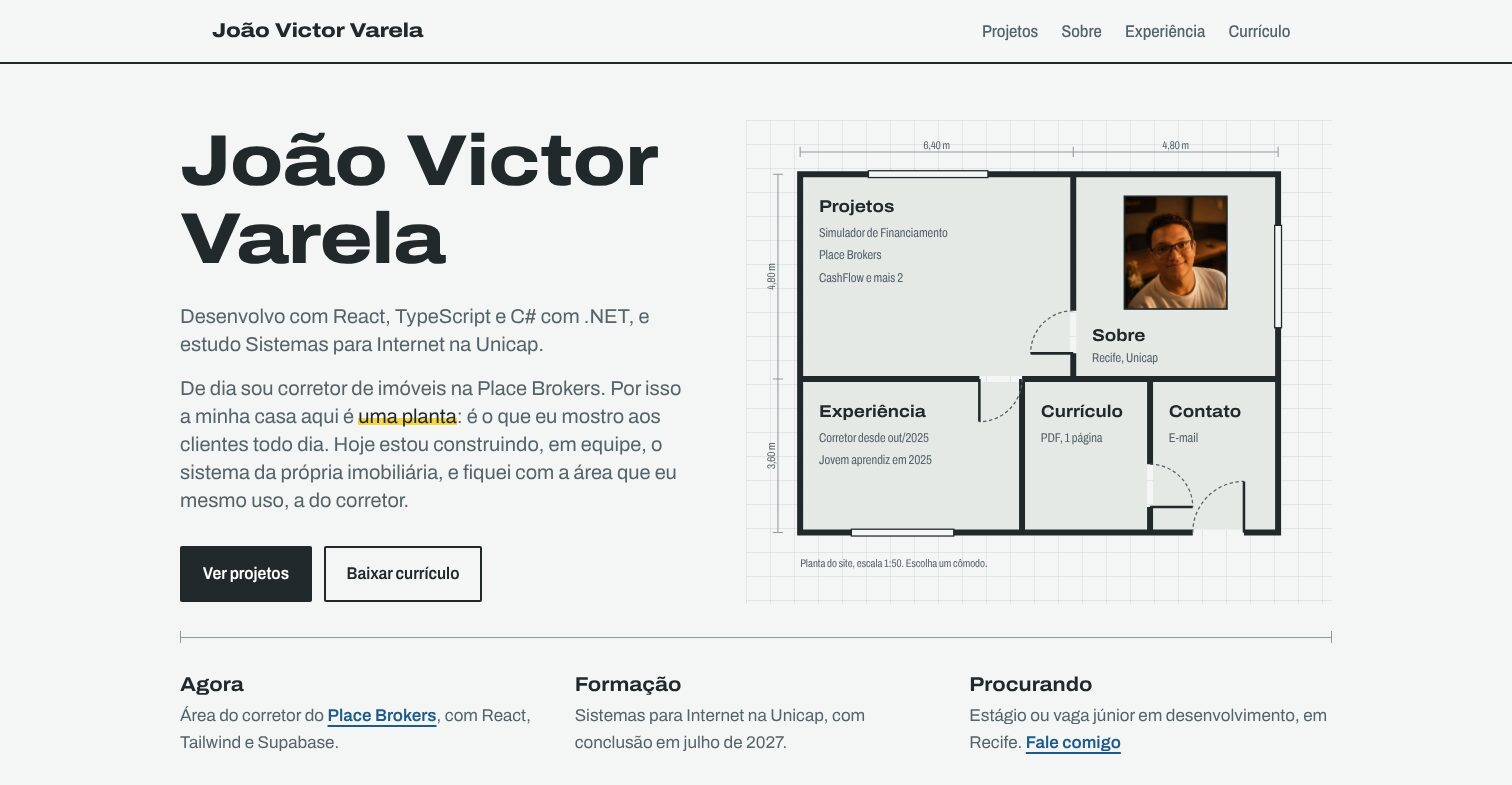
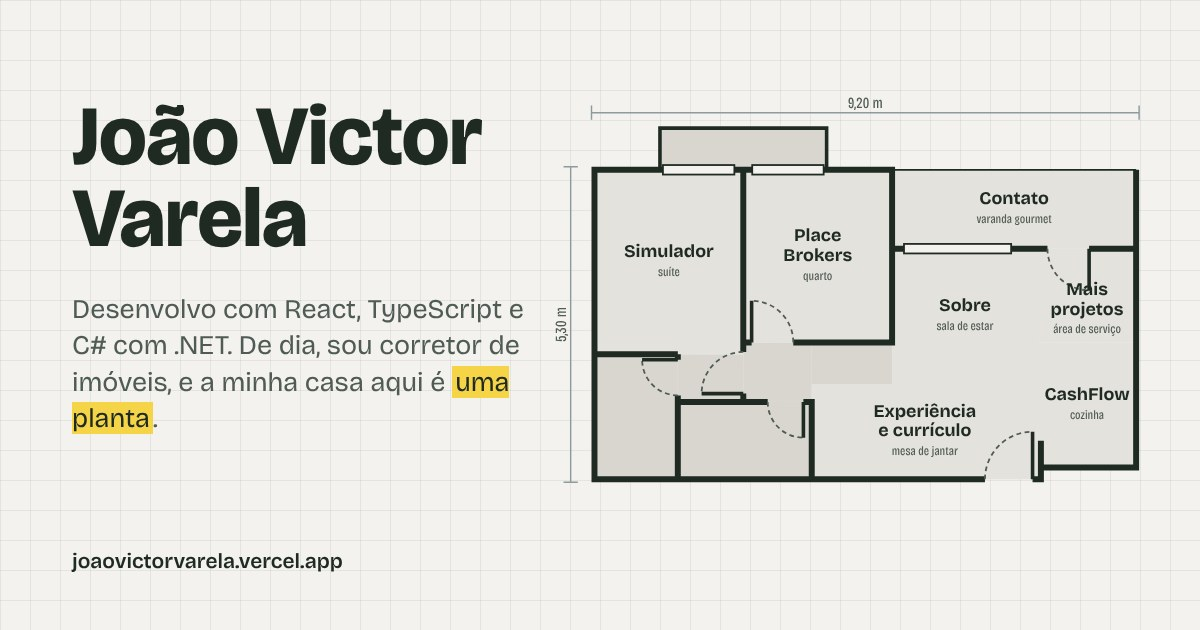
Imagem de compartilhamento nova, com a planta do site
Claude-Session: https://claude.ai/code/session_01WJa6oF6cnT1zW7dASZSFwD

diff --git a/app/layout.js b/app/layout.js
@@ -27,7 +27,7 @@ export const metadata = {
     siteName: "João Victor Varela",
     title: "João Victor Varela | Desenvolvedor",
     description: descricao,
-    images: [{ url: "/preview-portfolio.jpg", width: 1512, height: 785, alt: "Página inicial do portfólio de João Victor Varela" }],
+    images: [{ url: "/preview-portfolio.jpg", width: 1200, height: 630, alt: "João Victor Varela e a planta do site, com os cômodos que levam a cada seção" }],
   },
   twitter: {
     card: "summary_large_image",
